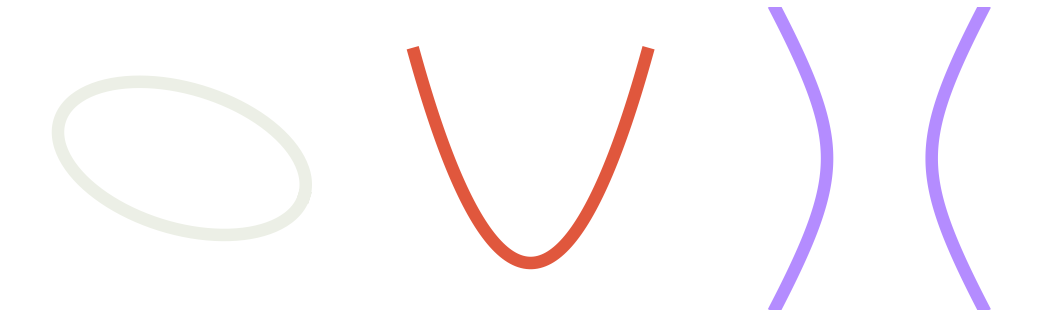
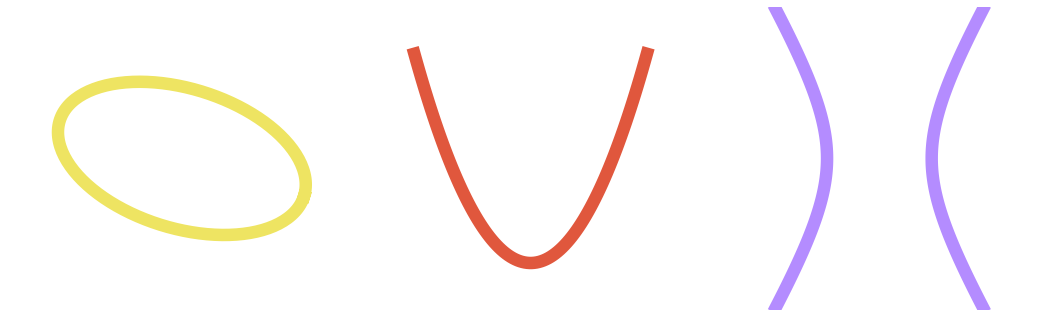
Regler fra Bens tilbakemeldinger 23.11 (kutt, farger, overganger, illustrasjoner); PDE 2: ny klippeliste og nytt miniatyrbilde
Claude-Session: https://claude.ai/code/session_01AG264w92gA6VbNbZjhAhPL

Changed region(s): [[0.0311, 0.2271, 0.311, 0.7666]]

diff --git a/pde/2-tre-typer/klipp/edl.py b/pde/2-tre-typer/klipp/edl.py
@@ -1,16 +1,18 @@
 # Klippeliste for «Tre typer PDE-er» fra PDE2_take120Nov.mov (kildetider i s).
 # Type: 'K' kald start, '1' hoveddel, 'B' blooper til slutt, 'X' = nøyaktige grenser (innskutte ord), ellers trimmes stillhet.
 B=[
-(55.0,61.6,'K','hvilke deriverte → hva slags fysikk'),
+(55.0,62.15,'K','hvilke deriverte → hva slags fysikk'),
 (62.2,82.3,'1','andreordens PDE-er'),
 (174.0,207.9,'1','generell form, a og b, typen'),
 (428.3,456.6,'1','matriseform'),
 (457.3,476.1,'1','gange ut → ekstra førsteordensledd'),
 (482.3,491.0,'1','førsteordensledd påvirker ikke typen'),
 (492.0,500.5,'1','faktoren en halv'),
-(575.0,602.6,'1','symmetrisk matrise → diagonal'),
-(612.0,619.1,'1','fordelen: egenverdier og fortegn'),
+(515.7,519.0,'1','«Ok, så langt en omskriving. Hvorfor?»'),
+(578.6,602.6,'1','«Jo, her er greia»: symmetrisk matrise → diagonal'),
+(612.0,619.35,'1','fordelen: egenverdier og fortegn'),
 (668.2,682.6,'1','λ1 u_ξξ + λ2 u_ηη; tre muligheter'),
+(683.4,684.12,'X','«Enten»'),
 (690.0,697.0,'1','samme / motsatt / null'),
 (705.9,716.1,'1','alle havner i en av tre; informasjon'),
 (724.1,729.6,'1','bølge: motsatte fortegn'),
@@ -31,7 +33,8 @@ B=[
 (1227.8,1242.7,'1','det > 0, = 0, < 0'),
 (1301.5,1306.08,'X','ganger kravet med …'),
 (1316.56,1317.32,'X','«minus» (innskutt)'),
-(1306.08,1318.4,'X','… fire → a² − 4b'),
+(1306.08,1309.2,'X','… fire, så får du det kanskje mer kjente'),
+(1315.6,1318.4,'X','a² − 4b (lang pause kuttet)'),
 (1284.5,1288.3,'1','negativ → elliptisk'),
 (1290.2,1292.52,'X','null → parabolsk'),
 (1230.28,1230.96,'X','«positiv» (innskutt, fra det-setningen)'),
@@ -42,5 +45,4 @@ B=[
 (1413.2,1419.7,'1','avgjøres av a² − 4b'),
 (1495.8,1509.0,'2','oppsummering'),
 (1509.9,1512.2,'2','prøv deg på oppgaver'),
-(773.4,789.2,'B','«truly hyperbolic» – blooper'),
 ]

diff --git a/pde/2-tre-typer/klipp/lag_biter.py b/pde/2-tre-typer/klipp/lag_biter.py
@@ -11,7 +11,7 @@ for a,b,s,m in B:
     if s=='X': biter.append([F(a),F(b),s,m]); continue
     i0,i1=int(a*50),int(b*50); on=db[i0:i1]>-45; idx=np.where(on)[0]
     ts=a+idx[0]*0.02; te=a+idx[-1]*0.02
-    start=max(a,ts-0.2); slutt=min(b,te+0.3)
+    start=max(a,ts-0.2); slutt=b if s=='K' else min(b,te+0.3)  # kald start: la pausen stå, overgangen spiser 0.4 s
     run=0; kutt=[]
     for k,v in enumerate(on):
         if not v: run+=1

diff --git a/LESMEG.md b/LESMEG.md
@@ -37,6 +37,12 @@ Videoene sorteres etter **tema** (som på nettstedet), ikke etter lærebok, ford
 - **Ta bort det som skjer før læreren begynner å snakke** i en bit (f.eks. at han strekker fjæra), med mindre det er selve poenget.
 - **Grønnskjermopptakene i PDE-serien (take 3) speilvendes**, så læreren ser mot tavla til venstre (`"speil": true` i `plan.json`). Lyden i .mov fra Macen starter 0.08 s etter bildet – vis opptaket 0.08 s tidligere.
 - **Læreren skal mer inn i bildet** (13. november 2026): større og lenger inn mot midten, så begge hendene synes når han gestikulerer – men alltid **bak** teksten på tavla (`"foran": [0, 0, 1920, 1080]` i `plan.json`). Flytt eller krymp læreren heller enn å dekke tekst.
+- **Illustrasjoner og formler framfor tekst** (23. november 2026): tegn en klokke for tid og en linjal for rom i stedet for å skrive «tid»/«rom»; vis en formel og et bilde (f.eks. strengen med u(x, 0) = f(x)) i stedet for setninger. Lite tekst på tavla.
+- **Farger er faste gjennom hele filmen og bygger opp under historien:** samme ting har samme farge overalt (f.eks. tid/t = 0 i klokkas farge, x i sin egen, hver type/kategori sin farge – hyperbolsk lilla, parabolsk rød, elliptisk gul). Bruk aldri samme farge for to ulike ting (f.eks. rød for både «negativt fortegn» og «parabolsk»). Fortegn skrives nøytralt.
+- **Overganger og lyd ved hvert nytt steg i manus** (23. november 2026): svisj-lyd og en tydelig bevegelse (sveip, rotasjon, fly inn/ut) når noe nytt begynner, så seeren merker at historien går videre.
+- **Lærerens vitser og morsomme bemerkninger tas med** (f.eks. «dritlett»), gjerne med en latterlyd.
+- **Flytt eller krymp læreren mens tavla fylles,** så han aldri står bak tekst, ruter eller formler. Gjerne at han glir litt til side når det kommer nye ting.
+- **Animer omskrivinger:** når en formel skrives om (f.eks. til matriseform), vis det trinn for trinn – «brett ut» og «pakk inn igjen», la ledd fly dit de hører hjemme, og stryk ledd som kansellerer mot hverandre.
 - **Tydelig skrift:** ingen svake grå merkelapper; minst ca. 36 px, ligninger større.
 - **Ting som er sagt med rekvisitter skal med** – f.eks. når læreren «spiller» på slinkyen som gitarstreng, ta med biten.
 

diff --git a/CLAUDE.md b/CLAUDE.md
@@ -63,6 +63,7 @@ Læreren tar ofte ting på nytt og improviserer. Da må opptaket høres gjennom 
 
 - **Tale til tekst:** I skyøkter virker `sherpa-onnx` (pip) med modellen `sherpa-onnx-whisper-turbo` og `silero_vad.onnx` fra GitHub-releasen `k2-fsa/sherpa-onnx` (`asr-models`). Huggingface er stengt. Se `arbeid-og-energi/potensiell-energi/klipp/` for et eksempel.
 - Lag en klippeliste (`klipp/edl.py` → `tider.json`): velg siste, beste tagning av hver setning, stram inn pauser over ca. 0.85 s, men ikke der læreren gjør noe med rekvisitter. Enkeltord kan byttes ut fra et annet sted i opptaket (læreren sier slike ord ekstra til slutt).
+- **Aldri kutt før læreren har snakket ferdig (skjedde gang på gang i PDE-filmene):** slutten av hver bit skal ligge minst 0.3 s etter siste lyd over støygulvet (sjekk energien i 40 ms-vinduer, ikke bare ASR-tidene, som ofte slutter for tidlig), og den skal ikke ligge midt i et ord eller en setning. Overganger (xfade/acrossfade, f.eks. fra kald start til intro) spiser lyd: legg dem helt i stillhet, etter siste ord. Sjekk hvert kutt med tale-til-tekst over skjøten før videoen settes sammen. Fjern også snubling og pauser over ca. 0.85 s, men ikke starten på en setning («Enten …», «Og hvorfor …»).
 - **Biter fra et annet opptak (ekstratake) skal ikke merkes:** match lyden (EQ, nivå og romtone mot nabobitene – `pde/1-hva-er-en-pde/klipp/lydmatch.py`) og plasseringen av læreren i bildet (mål hode/skuldre i grønnskjermbildet og flytt biten – `klipp/flytt_ekstratake.sh`). Ellers hører og ser læreren et brått skifte (Hva er en PDE, utkast 4, 3:07).
 - Klipp først fra en mindre proxy for å sette tidene, og hent så bitene i full kvalitet fra originalopptaket på Macen (`ffmpeg -ss … -t …` per bit) til den ferdige videoen.
 - **Leppesynk, rest:** Selv med like lange biter hang bildet bittelitt etter i Potensiell energi (opptaket fra Macen har lyden 0.075 s forskjøvet). Vis derfor opptaket **0.08 s tidligere** i `plan.json` (`"opptak": T + 0.08`). Spør læreren om det stemmer.
